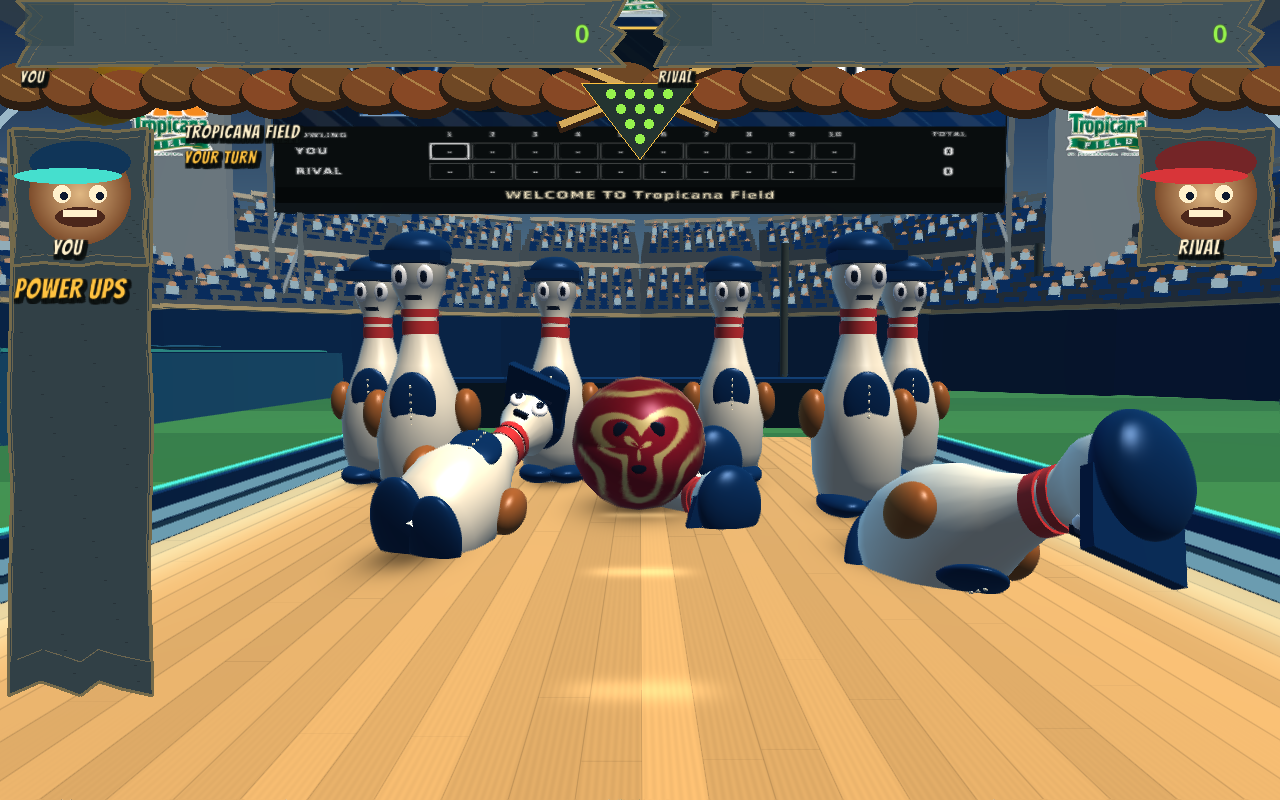
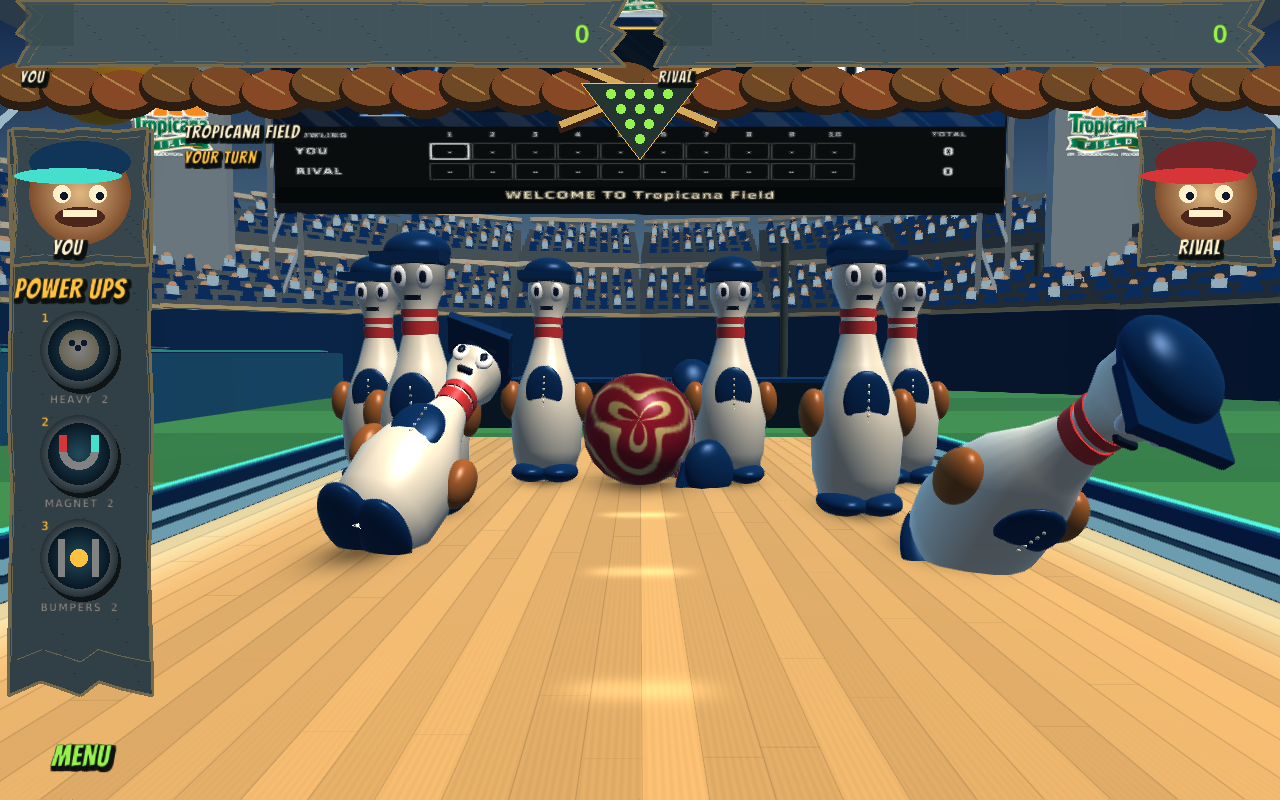
Create illustrated baseball title menu, faster throws and defined floor shading

diff --git a/native/src/main.cpp b/native/src/main.cpp
@@ -96,6 +96,12 @@ int main(int argc, char **argv) {
     art.init();
     art.makeSkins();
     art.makeSigns();
+    Texture2D titleArt =
+        LoadTexture((std::string(GetApplicationDirectory()) + "assets/title-screen.png").c_str());
+    if (!titleArt.id)
+        throw std::runtime_error("Missing title-screen.png beside executable");
+    GenTextureMipmaps(&titleArt);
+    SetTextureFilter(titleArt, TEXTURE_FILTER_TRILINEAR);
     Audio audio;
     audio.init();
     const char *dir = std::getenv("APPDATA");
@@ -133,6 +139,7 @@ int main(int argc, char **argv) {
         result = "MAKE SOME NOISE!";
     };
     restart();
+    int lastLoggedScreen = -1;
     auto launch = [&]() {
         if (state == 0 && !paused) {
             match.launch(shot);
@@ -173,7 +180,7 @@ int main(int argc, char **argv) {
             if (screen == 1) {
                 paused = !paused;
                 charge = false;
-            } else if (screen == 2)
+            } else if (screen != 0)
                 screen = 0;
             else
                 done = true;
@@ -338,7 +345,8 @@ int main(int argc, char **argv) {
         BeginTextureMode(scene);
         ClearBackground({45, 92, 129, 255});
         DrawRectangleGradientV(0, 0, W, 550, {17, 39, 75, 255}, {140, 182, 193, 255});
-        art.world(view, shot, state == 0 && screen == 1, arenas[arena].team, camera, time);
+        if (screen == 1 || screen == 3)
+            art.world(view, shot, state == 0 && screen == 1, arenas[arena].team, camera, time);
         EndTextureMode();
         BeginTextureMode(target);
         ClearBackground(BLACK);
@@ -346,7 +354,11 @@ int main(int argc, char **argv) {
         DrawTexturePro(scene.texture, {0, 0, float(W), -float(H)}, {0, 0, float(W), float(H)}, {0, 0}, 0,
                        WHITE);
         EndShaderMode();
-        if (screen != 1) {
+        if (screen == 0 || screen == 4 || screen == 5) {
+            DrawTexturePro(titleArt, {0, 0, float(titleArt.width), float(titleArt.height)},
+                           {0, 0, float(W), float(H)}, {0, 0}, 0, WHITE);
+        }
+        if (screen == 2 || screen == 3) {
             DrawRectangle(0, 0, W, 76, ink);
             DrawRectangle(0, 74, W, 3, gold);
             text("BIG LEAGUE BOWLING", 24, 16, 27, cream);
@@ -358,6 +370,56 @@ int main(int argc, char **argv) {
         }
         uiBlocked = paused;
         if (screen == 0) {
+            title("WELCOME TO THE BIG LEAGUES!", 565, 16, 20, cream);
+            if (button({282, 650, 320, 52}, "SINGLE PLAYER", true) || IsKeyPressed(KEY_ENTER)) {
+                match.mascot = false;
+                screen = 3;
+                audio.play(audio.click);
+            }
+            if (button({660, 650, 320, 52}, "MASCOT ADVENTURE", true)) {
+                match.mascot = true;
+                screen = 3;
+                audio.play(audio.click);
+            }
+            if (button({145, 718, 190, 42}, "BALL LOCKER")) {
+                selectedSkin = skin;
+                screen = 2;
+            }
+            if (button({350, 718, 145, 42}, "SCORES"))
+                screen = 4;
+            if (button({515, 718, 215, 42}, audio.muted ? "SOUND OFF" : "SOUND ON"))
+                audio.toggle();
+            if (button({750, 718, 140, 42}, "HELP"))
+                screen = 5;
+            if (button({920, 718, 140, 42}, "QUIT"))
+                done = true;
+        } else if (screen == 4 || screen == 5) {
+            // A theatrical full-screen interlude, not a dashboard over the title art.
+            DrawRectangle(0, 0, W, H, {5, 15, 23, 215});
+            if (screen == 4) {
+                title("HALL OF FAME", 460, 180, 65, gold);
+                center(std::to_string(profile.wins) + " WINS  /  " + std::to_string(profile.matches) +
+                           " MATCHES",
+                       640, 302, 27, cream);
+                center("BEST GAME  " + std::to_string(profile.best), 640, 360, 29, cream);
+                center(std::to_string(profile.xp) + " XP   |   " + std::to_string(profile.balls()) +
+                           " / 64 BALLS",
+                       640, 419, 24, gold);
+                center(std::to_string(profile.stadiums()) + " / 10 STADIUMS", 640, 471, 24, aqua);
+            } else {
+                title("HOW TO BOWL", 455, 160, 65, gold);
+                center("STADIUM BOWLING", 640, 277, 28, gold);
+                center("Move the mouse to line up. Hold to power up.", 640, 324, 23, cream);
+                center("Drag up for power, sideways to aim. Release to bowl.", 640, 361, 23, cream);
+                center("MASCOT ADVENTURE", 640, 428, 28, aqua);
+                center("Grab the tube. Pull back and sideways, then release.", 640, 475, 23, cream);
+                center("A / D or arrows to steer. Space to boost.", 640, 512, 23, cream);
+                center("1 / 2 / 3: power-ups     Escape: pause     F11: fullscreen", 640, 570, 19,
+                       cream);
+            }
+            if (button({470, 680, 340, 60}, "BACK TO MAIN MENU", true))
+                screen = 0;
+        } else if (screen == 3) {
             DrawRectangleGradientH(0, 77, 800, 723, {7, 18, 33, 250}, {7, 18, 33, 0});
             title("BOWL LIKE", 40, 105, 55, cream);
             title("A BIG LEAGUER.", 40, 161, 57, gold);
@@ -405,6 +467,8 @@ int main(int argc, char **argv) {
             center(std::to_string(profile.xp) + " XP  /  Best " + std::to_string(profile.best), 1047,
                    615, 19, aqua);
             center("80 XP unlocks the next ball", 1047, 655, 16, cream);
+            if (button({930, 720, 300, 50}, "BACK TO MAIN MENU"))
+                screen = 0;
         } else if (screen == 2) {
             DrawRectangle(0, 78, W, H - 78, {7, 18, 33, 245});
             text("THE BALL LOCKER", 30, 96, 32, gold);
@@ -510,7 +574,14 @@ int main(int argc, char **argv) {
                         match.equip(Power(i + 1));
             }
         }
-        if(screen==1 && button({8,724,144,64},"MENU")) {paused=true;charge=false;}
+        if (screen == 1 && button({8, 724, 144, 64}, "MENU")) {
+            paused = true;
+            charge = false;
+        }
+        if (!screenshot.empty() && screen != lastLoggedScreen) {
+            std::cout << "UI preview: screen=" << screen << " mascot=" << match.mascot << std::endl;
+            lastLoggedScreen = screen;
+        }
         uiBlocked = false;
         if (paused) {
             DrawRectangle(0, 77, W, 723, {3, 10, 20, 210});
@@ -538,12 +609,13 @@ int main(int argc, char **argv) {
             capture();
             done = true;
         }
-        if (!smoke && !screenshot.empty() && ticks == captureFrame) {
+        if (!smoke && !screenshot.empty() && (ticks == captureFrame || IsKeyPressed(KEY_F12))) {
             capture();
             done = true;
         }
     }
     audio.close();
+    UnloadTexture(titleArt);
     UnloadFont(arcadeFont);
     UnloadFont(uiFont);
     art.close();

diff --git a/native/src/art.hpp b/native/src/art.hpp
@@ -988,10 +988,13 @@ void main(){uv=vertexTexCoord;normal=normalize(mat3(matNormal)*vertexNormal);wor
         }
         if (aim)
             for (int i = 0; i < 20; ++i) {
-                float t = i * .07f, x = geo::renderX(shot.position + std::sin(shot.aim * .16f) * 22 * t +
-                                                     .5f * shot.curve * .85f * t * t);
+                float t = i * .07f,
+                      x = geo::renderX(shot.position +
+                                       std::sin(shot.aim * .16f) * geo::launchSpeed(shot.power) * t +
+                                       .5f * shot.curve * .85f * t * t);
                 if (std::abs(x) < 4.7f)
-                    orb({x, .07f, geo::foulLine + t * 22}, {.045f, .015f, .10f}, gold);
+                    orb({x, .07f, geo::foulLine + t * geo::launchSpeed(shot.power)},
+                        {.045f, .015f, .10f}, gold);
             }
         EndMode3D();
     }

diff --git a/native/tests/rules.cpp b/native/tests/rules.cpp
@@ -84,6 +84,19 @@ int main() {
         b.step(1.f / 120);
     }
     check(!a.active && a.knocked() > 0 && a.knocked() == b.knocked(), "deterministic collisions");
+    for (float power : {0.f, .5f, 1.f}) {
+        Simulation timed;
+        timed.launch({5, 0, power, 0});
+        float seconds = 0;
+        while (timed.ball.z < geometry::headPin && seconds < 10) {
+            timed.step(1.f / 120);
+            seconds += 1.f / 120;
+        }
+        if (power == 1)
+            check(seconds >= 3 && seconds <= 4, "full power reaches head pin in 3-4 seconds");
+        check(seconds < 6.1f, "low power still reaches rack promptly");
+        check(timed.impacts > 0, "faster straight shot does not tunnel through rack");
+    }
     Simulation miss;
     miss.launch({1, -1, .7f, 0});
     for (int i = 0; i < int(geometry::shotTimeout * 120 + 240); ++i)

diff --git a/native/src/lane_geometry.hpp b/native/src/lane_geometry.hpp
@@ -15,7 +15,12 @@ inline constexpr float gutterWidth = .7f, gutterCenter = halfWidth + gutterWidth
 inline constexpr float arrowZ = 12.f, dotsZ = 4.6f;
 inline constexpr float sceneryDepthScale = 2.f; // decoration coordinates only
 inline constexpr float sceneryExtension = (headPin - 44.f) / sceneryDepthScale;
-inline constexpr float shotTimeout = (deckEnd - foulLine) / 11.f + 4.f;
+inline constexpr float minLaunchSpeed = (headPin - foulLine) / 6.f;
+inline constexpr float maxLaunchSpeed = (headPin - foulLine) / 3.5f;
+inline constexpr float launchSpeed(float power) {
+    return minLaunchSpeed + (maxLaunchSpeed - minLaunchSpeed) * power;
+}
+inline constexpr float shotTimeout = (deckEnd - foulLine) / minLaunchSpeed + 4.f;
 inline constexpr float renderX(float x) {
     return halfWidth - x;
 }

diff --git a/native/src/game.hpp b/native/src/game.hpp
@@ -108,7 +108,7 @@ struct Simulation {
     bool launch(Shot s) {
         if (active)
             return false;
-        float speed = 11 + std::clamp(s.power, 0.f, 1.f) * 13,
+        float speed = geometry::launchSpeed(std::clamp(s.power, 0.f, 1.f)),
               angle = std::clamp(s.aim, -1.f, 1.f) * .16f;
         ball = {std::clamp(s.position, geometry::launchMin, geometry::launchMax), geometry::foulLine,
                 std::sin(angle) * speed, std::cos(angle) * speed, geometry::ballRadius};

diff --git a/native/docs/VALIDATION.md b/native/docs/VALIDATION.md
@@ -1,3 +1,11 @@
+# Illustrated title / pacing / floor shader milestone
+
+- Original illustrated title-screen texture is packaged, with native menu hit targets. Real X11 mouse navigation verified Help → Back, Scores → Back, Locker → Back, Single Player → Setup → Gameplay, and Mascot Adventure → Setup → Gameplay. Preview tracing confirmed screen and mode transitions. F12 captures/exits when using --screenshot for interactive verification.
+- Physics tests measure full-power travel to the head pin within 3–4 seconds (nominal 3.5) and verify actual rack contact at low, medium and full power. Lane size and camera presets unchanged. Rules and campaign suites pass.
+- Full native stadium match completed: 38 rolls, 63–122. Launch/impact screenshots inspected in both modes; floor renders on both sides in Linux.
+- Fixed undefined GLSL pow() calls with signed bases in floor reflection and edge highlights. This is a plausible cause of the reported half-black lane on Windows; confirmation on the affected GPU remains outstanding.
+- Windows cross-build, ZIP CRC, complete source-to-package asset comparison and warning-free NSIS installer compile passed. Windows runtime is unverified.
+
 # Long-lane arcade frame milestone
 
 - Intentional playable run increase: 80 to 160 units; width, bodies and camera constants unchanged. Projection tests lock distant rack to 38–46px at 1280×800. Physics/campaign tests use geometry-derived time budgets and pass.

diff --git a/native/PROPORTIONS.md b/native/PROPORTIONS.md
@@ -18,3 +18,7 @@ Both modes use these dimensions from `src/lane_geometry.hpp`. Rendering and simu
 Stadium ready camera: height 3.8, Z -4.5, target height 1.1, vertical FOV 55. Mascot ready camera: height 4, Z -7, target height -1, FOV 53. All components are regression-tested. At 1280×800 the stadium rack width must project to 38–46 pixels and foul-line-to-head-pin screen distance to 390–440 pixels. This catches visual shortening that a world-length check alone misses.
 
 The latest deliberate change doubled the playable run from 80 to 160 without changing width, body sizes or cameras. It supersedes previous shorter layouts and the abandoned raised-camera experiment. Physics tests and smoke bounds derive their simulation duration from the shared shot timeout. Graphics-only changes must not modify these constants; intentional changes require updated tests, docs and user-facing explanation. Check launch and pin-impact views in both modes.
+
+## Throw pacing
+
+Lane dimensions and camera presets remain unchanged. Launch speed interpolates from 160/6 units per second at zero power to 160/3.5 at full power. Straight full-power throws reach the head pin in approximately 3.5 seconds; power and aim still affect travel time, and mascot boost can shorten it. Simulation tests measure the actual traversal and check rack contact to catch tunneling.

diff --git a/native/README.md b/native/README.md
@@ -81,3 +81,7 @@ Blue title panels have been replaced with ballpark scoreboards. Wrigley uses pai
 Run Big-League-Bowling-Setup.exe, choose Install, then Play on the finish screen. The installer adds desktop and Start menu shortcuts and a Windows Installed Apps uninstaller. No admin rights required. Career saves survive uninstall. See installer/README.md for rebuilding. This build is unsigned and Windows execution remains unverified here.
 
 Latest visual reference pass: 160-unit lane run with unchanged width and body sizes. A distant-rack projection test protects the reference composition. Decorative baseball framing, left power strip, player portraits, Bangers arcade lettering and unboxed menu actions replace application-like controls.
+
+## Opening menu and pacing
+
+The illustrated title screen opens Single Player or Mascot Adventure setup. Ball Locker, Scores, Sound, Help and Quit are functional native menu actions; Escape returns from submenus. Enter selects Single Player. Full power reaches the pins in about 3.5 seconds, with unchanged lane size. The floor shader uses defined signed arithmetic to avoid a driver-dependent black-lane artifact.

diff --git a/HANDOFF.md b/HANDOFF.md
@@ -1,3 +1,5 @@
+Latest: illustrated native title screen with real bottom menu controls. Screen0 title, 1 gameplay, 2 locker, 3 match setup, 4 career, 5 help. Enter/Single Player goes to setup; Escape returns to title from submenus. Full-power travel tuned to ~3.5s with lane dimensions unchanged. Signed floor pow() expressions replaced to address driver-dependent black half-lane. Windows graphics fix requires user-machine confirmation.
+
 Latest milestone uses the supplied graveyard screenshot as composition reference: 160-unit lane and original baseball arcade HUD, no boxed gameplay/menu buttons. Bangers display font and OFL are packaged. Read latest sections of native/PROPORTIONS.md and native/ART_DIRECTION.md before editing.
 
 Latest: native/installer/setup.nsi builds a per-user Windows installer with shortcuts and uninstaller. Read native/docs/CONTROL_REFERENCE.md for the restored reachable tube drag, timed/drag stadium power and corrected low Zombies-like camera. native/PROPORTIONS.md latest section supersedes earlier camera experiments.

diff --git a/native/assets/TITLE_ART.md b/native/assets/TITLE_ART.md
@@ -1,0 +1,3 @@
+# Illustrated title artwork
+
+`title-screen.png` is original AI-generated baseball arcade title artwork created for this project. It follows the user-supplied Bowl-o-Rama menu composition: large illustrated title, central character scene, stadium atmosphere and bottom menu lettering. The image contains no click targets; all menu entries are live native controls rendered separately. Source generation was copied from the workspace generated_images output; gameplay geometry is not embedded in or changed by this illustration.
